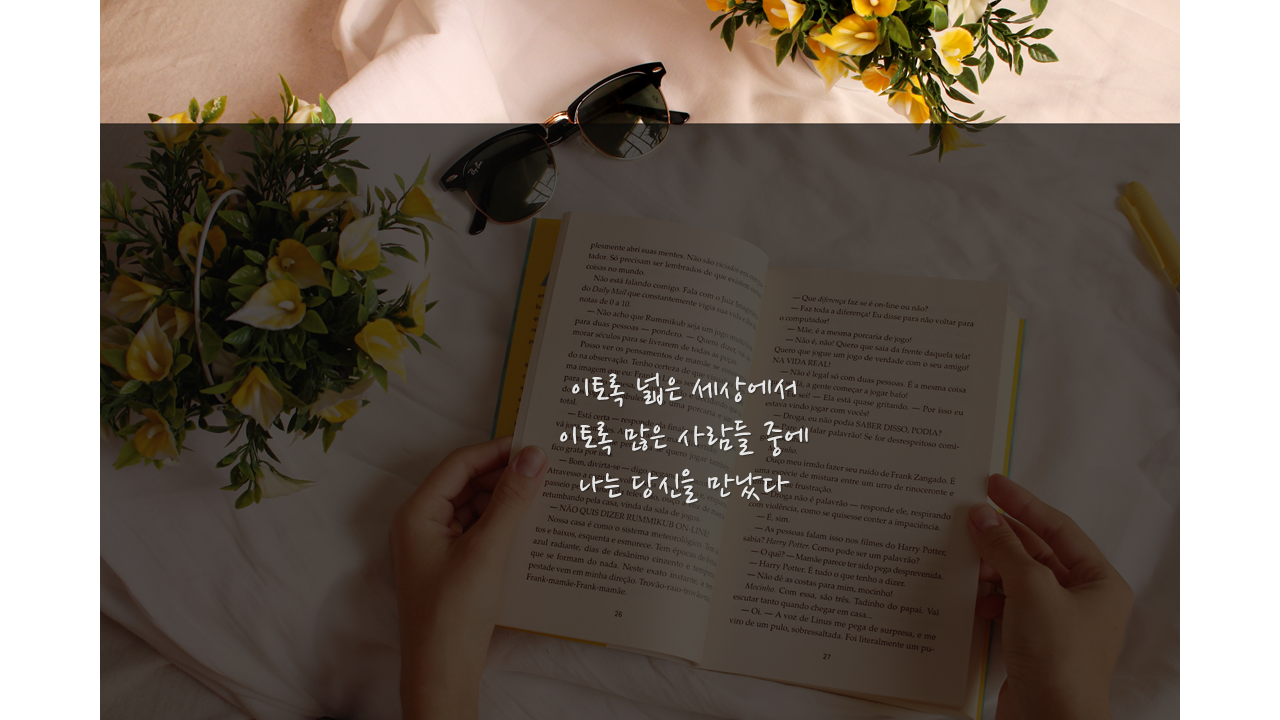
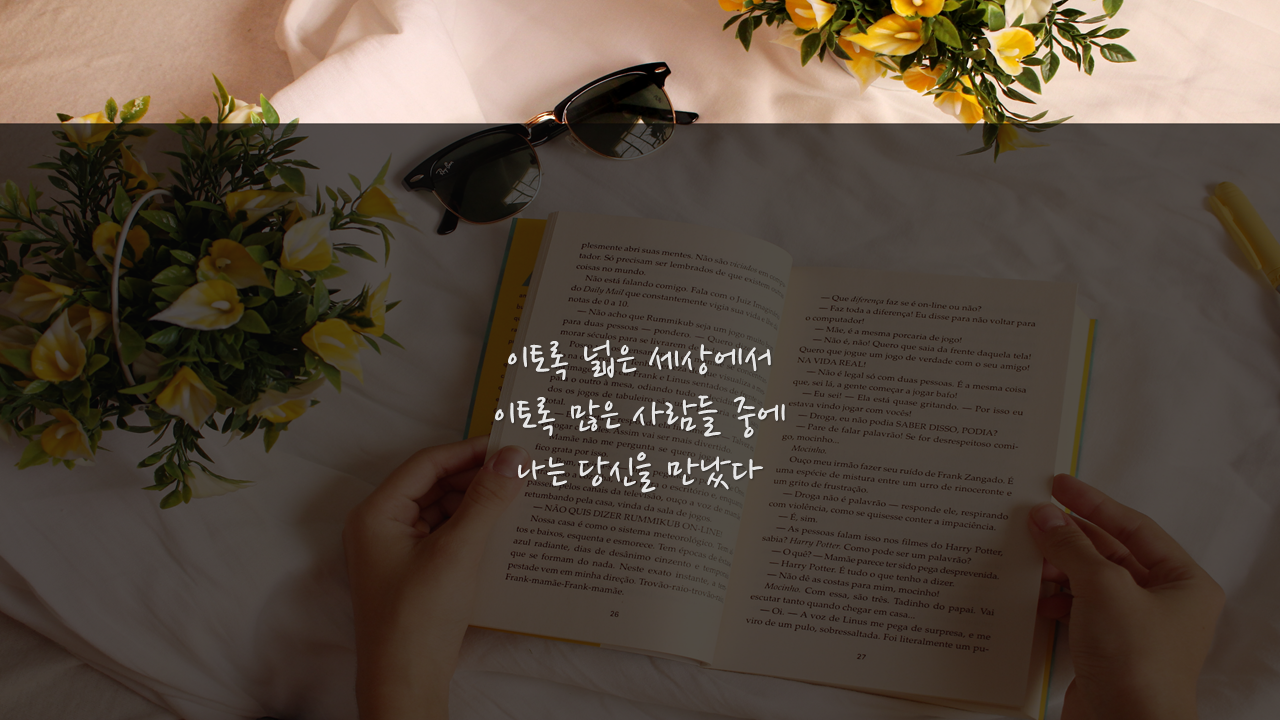
modify header BackImage font

diff --git a/ui.css b/ui.css
@@ -2,10 +2,21 @@
 #wrap{min-width: 1200px; margin: 0 auto}
 #header{
   position: relative; width:100%; height:500px;
-  margin-top: 30px;
-  background:url("./images/headerBackground3.png") no-repeat;
-  background-size:1300px 80%; background-position: center;
+  background:url("./images/headerBackground.png") no-repeat;
+  background-size:1100px 90%; background-position: center;
  z-index: 11;}
+
+#header .login{
+  position: relative;
+  margin-top: 20px;
+  height:25px;
+
+}
+#header .login_area{
+  width: 1100px;
+  margin: 0 auto;
+  text-align: right;
+}
 
 #header .banner{
   position: relative;
@@ -20,15 +31,17 @@
   border-bottom: 2px solid #e4e8eb;
   background-color: #D7A580;
 }
+
 #header .logo_area img{
   position: absolute;
+  top:10px;
   left:30px;
   width:70px;
 }
 
 #header .title{
   position: absolute;
-  top:13px;
+  top:23px;
   left:100px;
   font-weight: 800;
   font-size: 36px;
@@ -38,7 +51,7 @@
 #header .subTitle{
   position: absolute;
   left:40px;
-  top:60px;
+  top:70px;
   font-weight: 800;
   font-size: 13px;
   color: #F8FFF4;
@@ -57,7 +70,7 @@
 }
 #header .menu_area nav ul{
   position:absolute;
-  top:20px;
+  top:25px;
   left:350px;
   display: inline-block;
 }

diff --git a/home.html b/home.html
@@ -17,6 +17,11 @@
 <body>
   <div id="wrap">
     <div id="header">
+      <div class="login">
+        <div class="login_area">
+          <span>Login</span>
+        </div>
+      </div>
       <div class="banner">
         <div class="banner_area">
           <div class="logo_area">
@@ -36,16 +41,10 @@
           </div>
         </div>
       </div>
-      <div class="intro">
-        <div id="intro_area">
-        </div>
-      </div>
+      <!-- <a class="logo_name" href="#"><img src="favicon.png" /><span>RBBB</span></a> -->
     </div>
-    <!-- <a class="logo_name" href="#"><img src="favicon.png" /><span>RBBB</span></a> -->
-  </div>
-  <section id="container">
-  </section>
-  </section>
-</body>
+    <section id="container">
 
+    </section>
+</body>
 </html>
